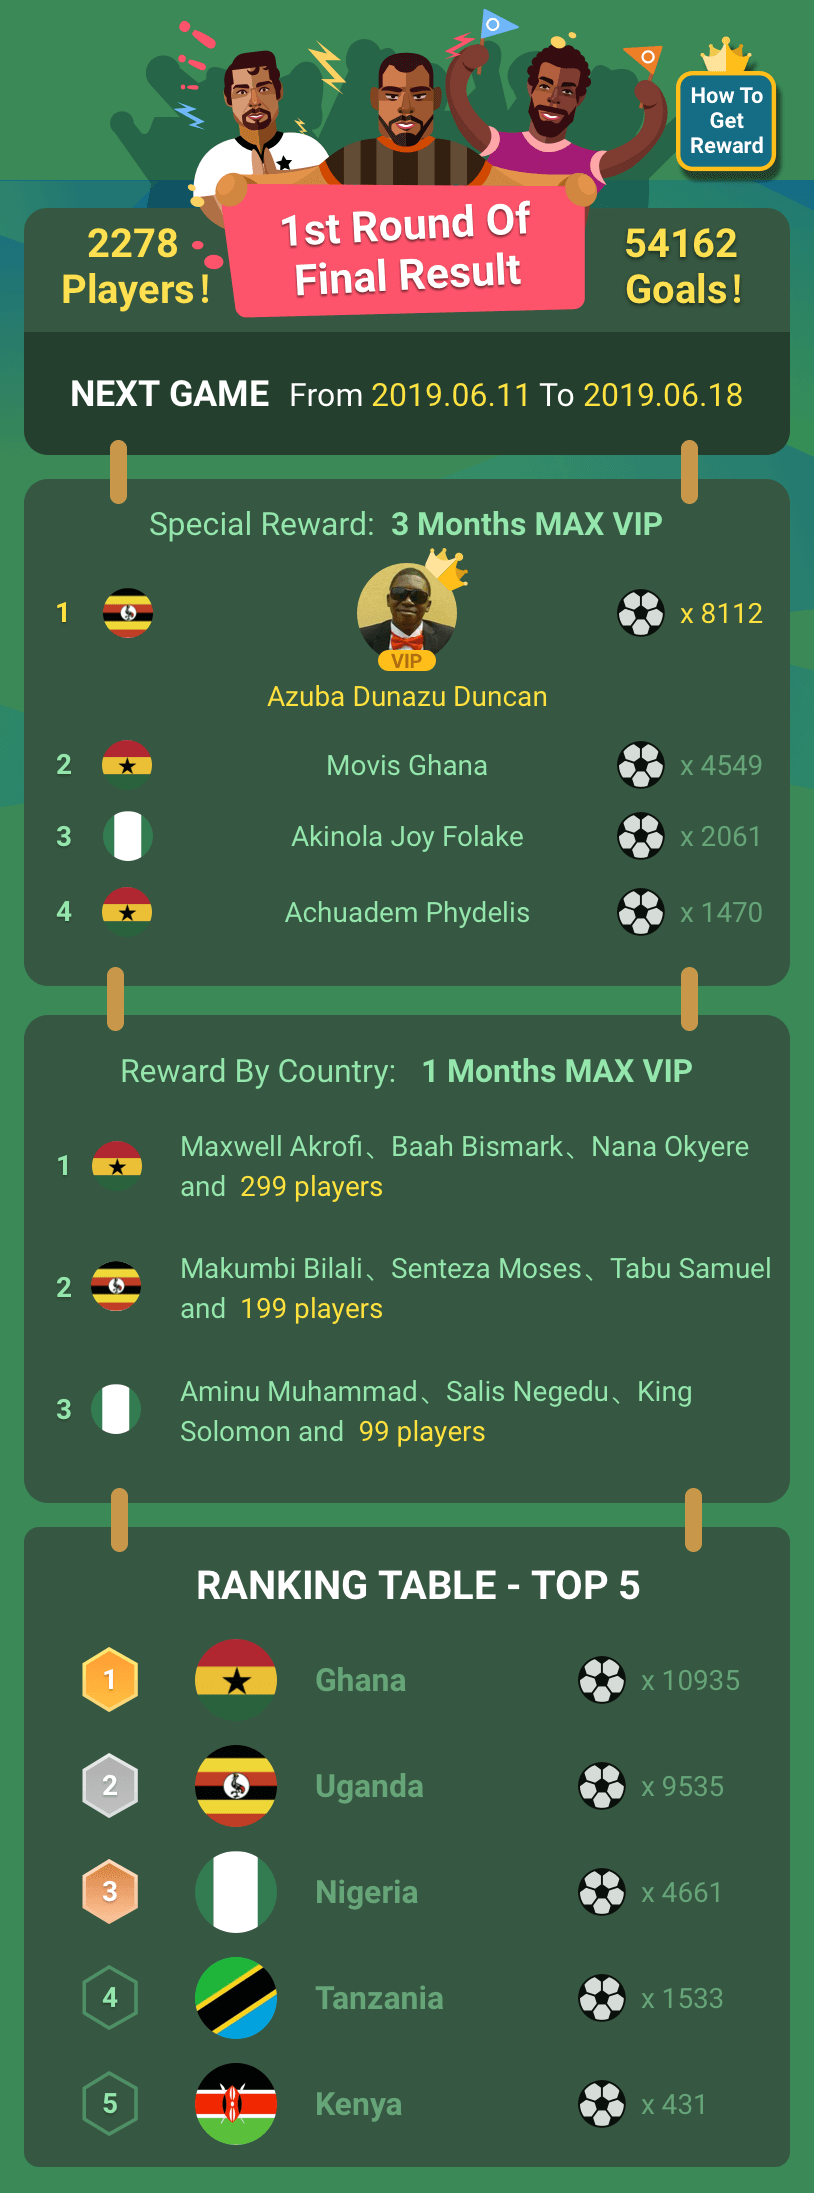
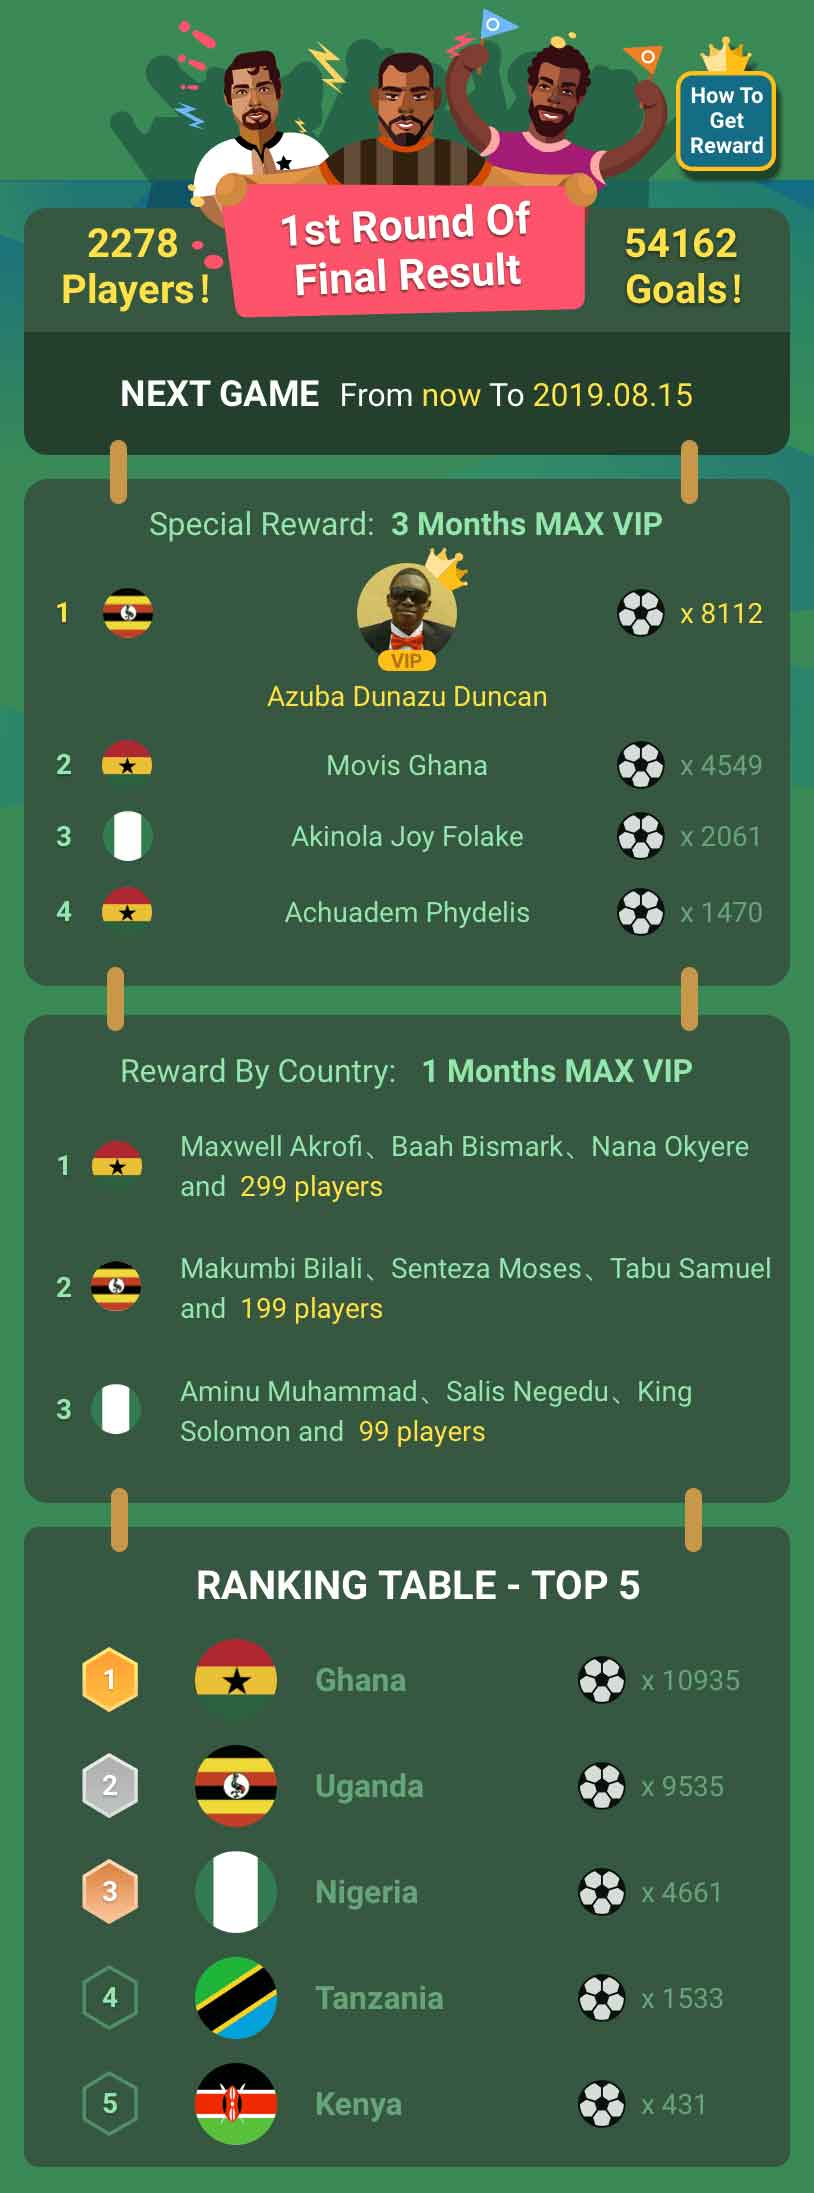
小游戏二期文案修改

diff --git a/pages/hybrid/vote/aconr.vue b/pages/hybrid/vote/aconr.vue
@@ -16,7 +16,7 @@
             <img class="rules" src="~assets/img/vote/showgif.png" @click.stop="showgif=true" />
         </div>
         <div class="bot-down">
-            <div class="bot-down-text">Eid Mubarak!! Share to more friends for the great honor of your country.</div>
+            <div class="bot-down-text">Share to more friends for the great honor of your country and win coins now.</div>
             <div class="bot-down-btn" @click="share">SHARE NOW!</div>
         </div>
         <sharePannel />
@@ -47,7 +47,7 @@ export default {
                 shareInvite(
                     `${window.location.href}?utm_source=startimes_app&utm_medium=activity&utm_campaign=soccercup2`,
                     'Eid Mubarak!',
-                    `Final result of StarTimes ON Soccer Cup game comes out. Check it out and get reward.`,
+                    `Final result of StarTimes ON Soccer Cup game comes out. Join the now one and get coins&VIPs.`,
                     `${window.location.origin}/res_nuxt/img/soccercup.png`
                 )
             } else if (this.$store.state.appType == 0) {
@@ -89,12 +89,12 @@ export default {
                 {
                     name: 'description',
                     property: 'description',
-                    content: '【Eid Mubarak!】Final result of StarTimes ON Soccer Cup game comes out. Check it out and get reward.'
+                    content: 'Final result of StarTimes ON Soccer Cup game comes out. Join the now one and get coins&VIPs.'
                 },
                 {
                     name: 'og:description',
                     property: 'og:description',
-                    content: '【Eid Mubarak!】Final result of StarTimes ON Soccer Cup game comes out. Check it out and get reward.'
+                    content: 'Final result of StarTimes ON Soccer Cup game comes out. Join the now one and get coins&VIPs.'
                 },
                 {
                     name: 'og:image',
@@ -130,7 +130,7 @@ html {
     max-width: 1080px;
     margin: 0 auto;
     position: relative;
-    padding-bottom: 3rem;
+    padding-bottom: 3.5rem;
     .result {
         display: block;
         width: 100%;
@@ -147,7 +147,7 @@ html {
     position: fixed;
     width: 100%;
     bottom: 0;
-    height: 3rem;
+    height: 3.5rem;
     padding: 0.5rem 3%;
     display: -webkit-box;
     background: #3a8956;

diff --git a/pages/hybrid/vote/acon.vue b/pages/hybrid/vote/acon.vue
@@ -44,7 +44,7 @@
         </div>
         <mCard v-show="awardsCard" :title="'AWARD RULES'" class="card" @closeCard="awardsCard=false">
             <template v-slot:content>
-                <p>1. Activity Time: 2019-06-11 00:00:00 - 2019.06.19 23:59:59</p>
+                <p>1. Activity Time: 2019-06-11 00:00:00 - 2019.08.15 23:59:59</p>
                 <p>2. Each user represents his own country, and each time he scores a goal, he scores 1 goal for the country.</p>
                 <p>3. There is no limit on the number of times per person per day, can always play during the event</p>
                 <p>4. After the event, 299 users in Champion country team will receive 1 FREE MAX VIP monthly coupon, 199 in the second country, 99 in the third country, and no more than 50 users in the 4th to 15th countries.</p>
@@ -56,7 +56,7 @@
             </template>
         </mCard>
         <div class="bot-down">
-            <div class="bot-down-text">The more friends you call, the higher winning probability will be.</div>
+            <div class="bot-down-text">Every user in TOP 5 country who scored will get the mega coins. Call your friends.</div>
             <div class="bot-down-btn" @click="share">CALL NOW!</div>
         </div>
     </div>
@@ -105,7 +105,7 @@ export default {
             this.$alert(
                 `Welcome to the 'CRAZY FREEKICK'! As a country hero, You'll represent for Team ${
                     this.country.name
-                }. Any goal you score will be added to your country. The higher ranking your team reaches, the more VIP FREE Coupons will be sent to people who have scored.`
+                }. Any goal you score will be added to your country. The higher ranking your team reaches, the more VIP FREE Coupons and coins will be sent to people who have scored.`
             )
             localStorage.setItem('acon_first', 1)
         }
@@ -417,7 +417,7 @@ canvas {
 .bot-down {
     position: fixed;
     bottom: 0;
-    height: 3rem;
+    height: 3.5rem;
     padding: 0.5rem 3%;
     display: -webkit-box;
     background: #3a8956;
